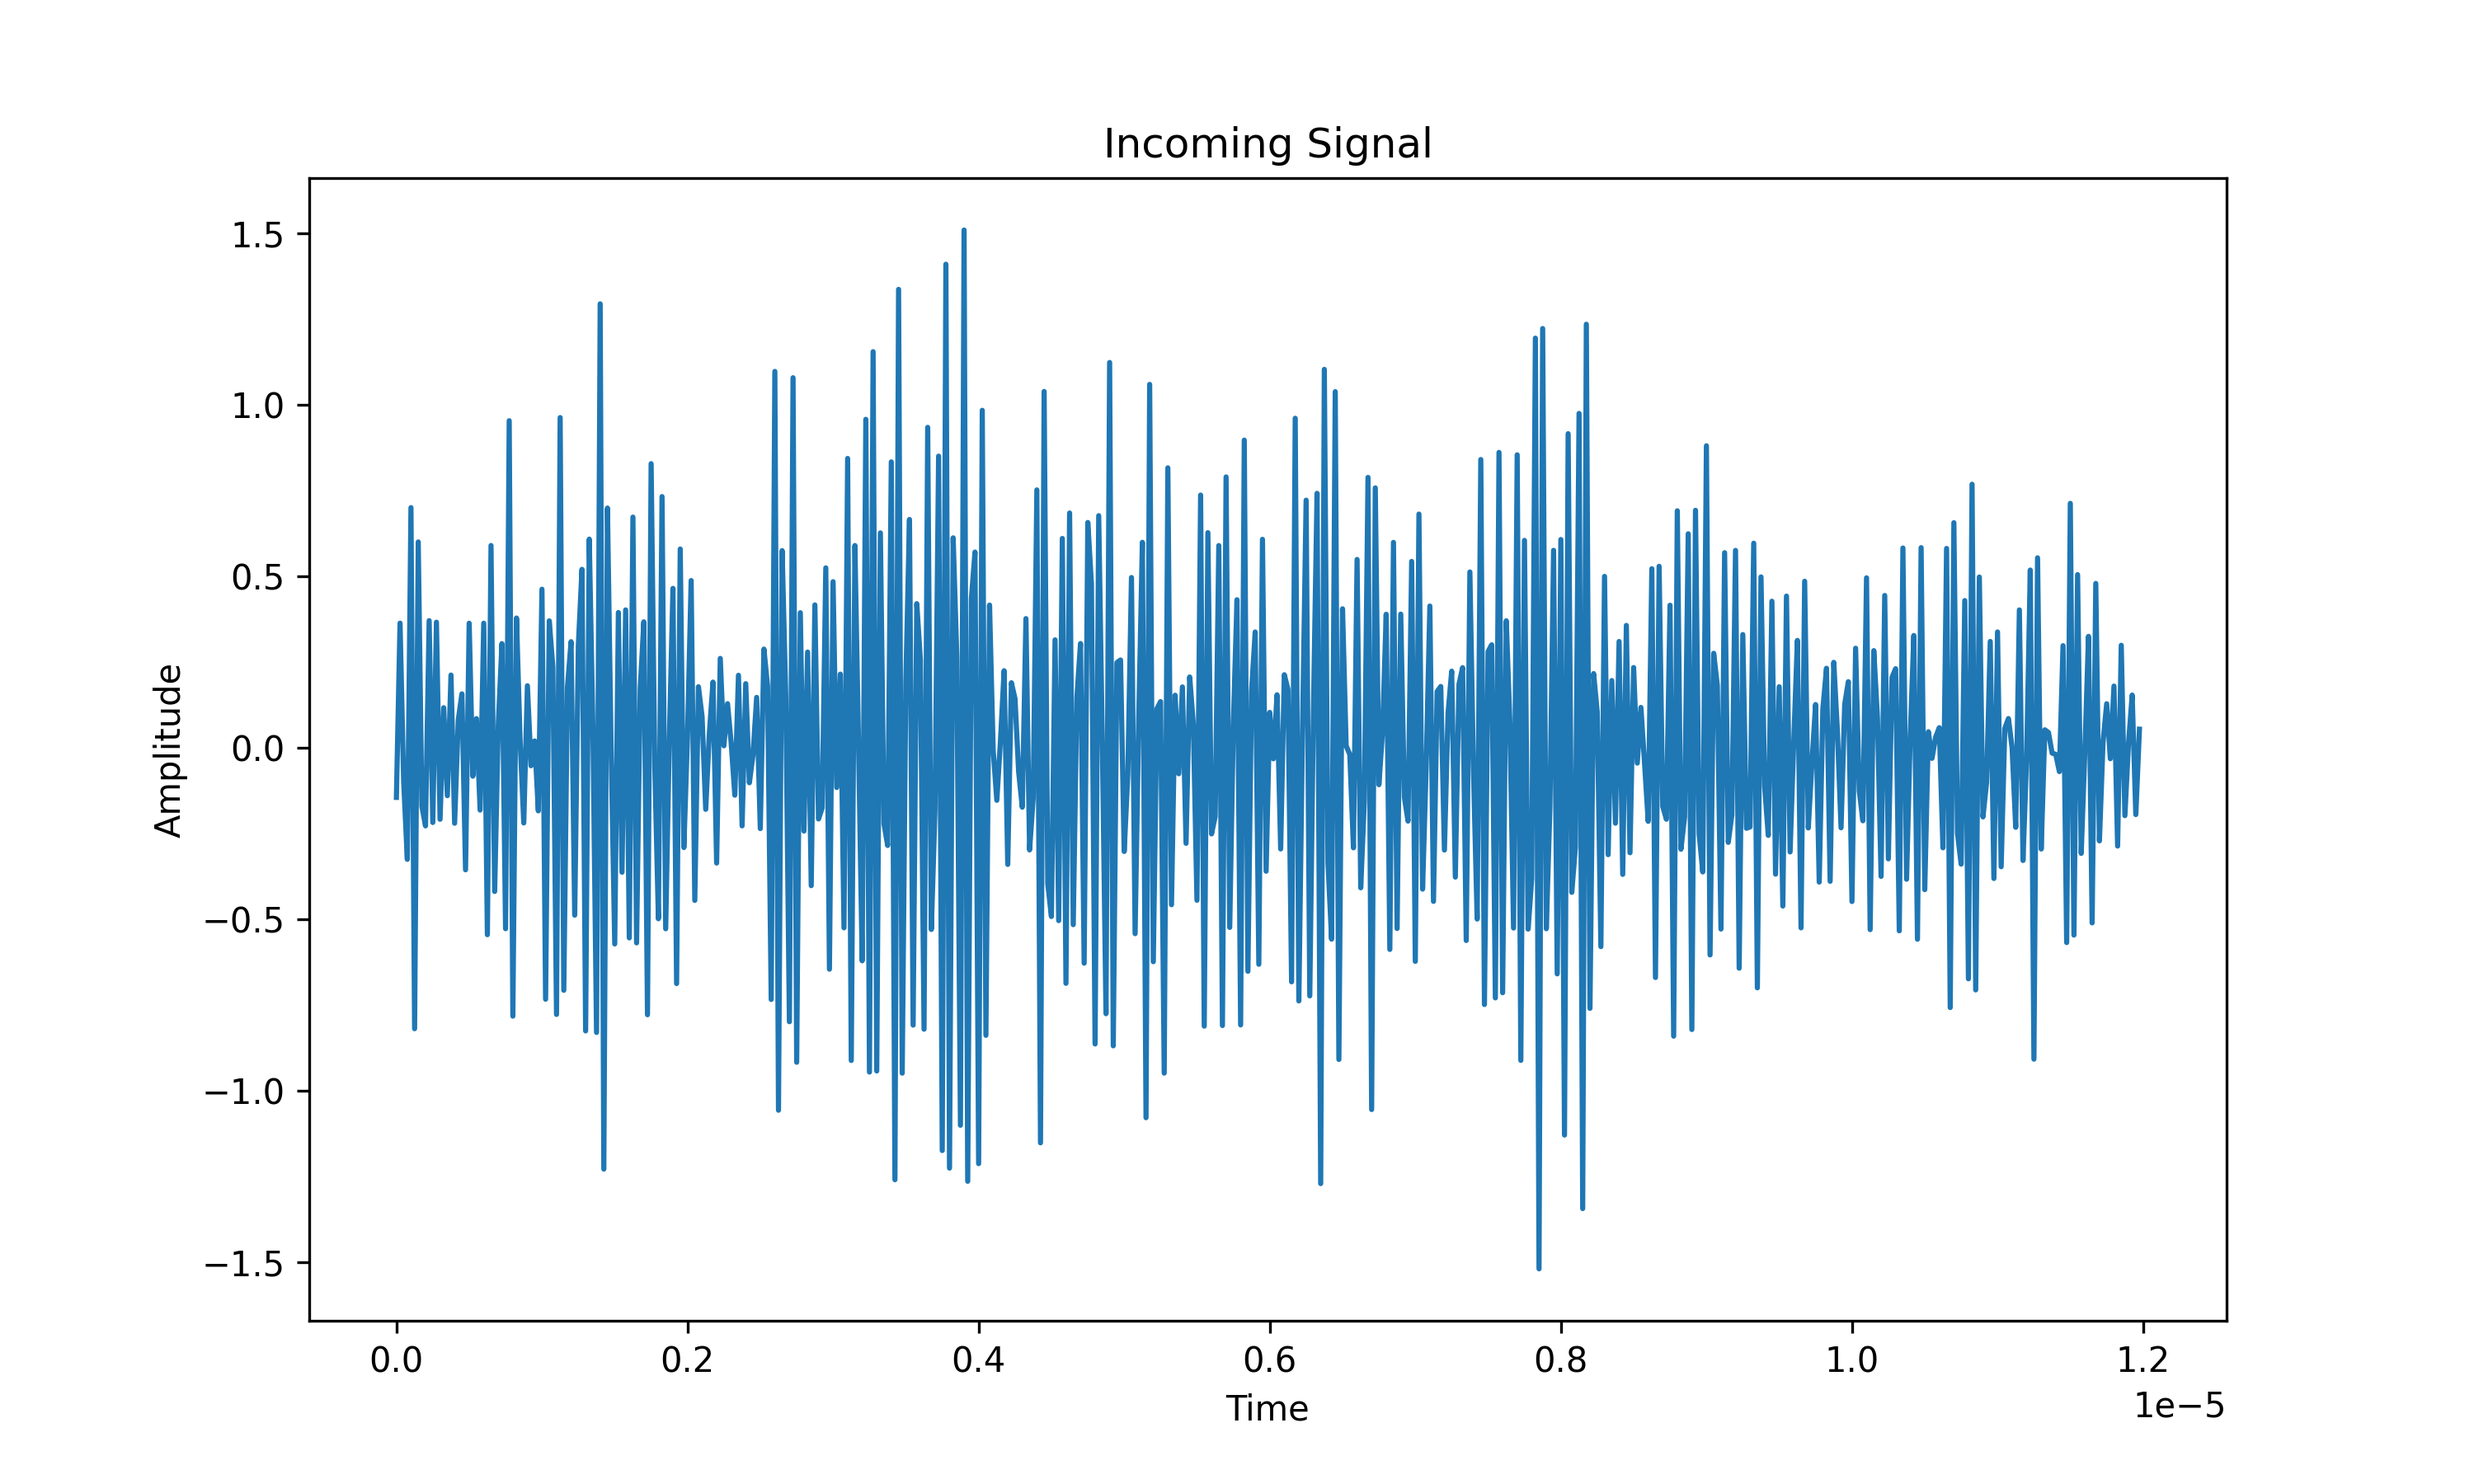
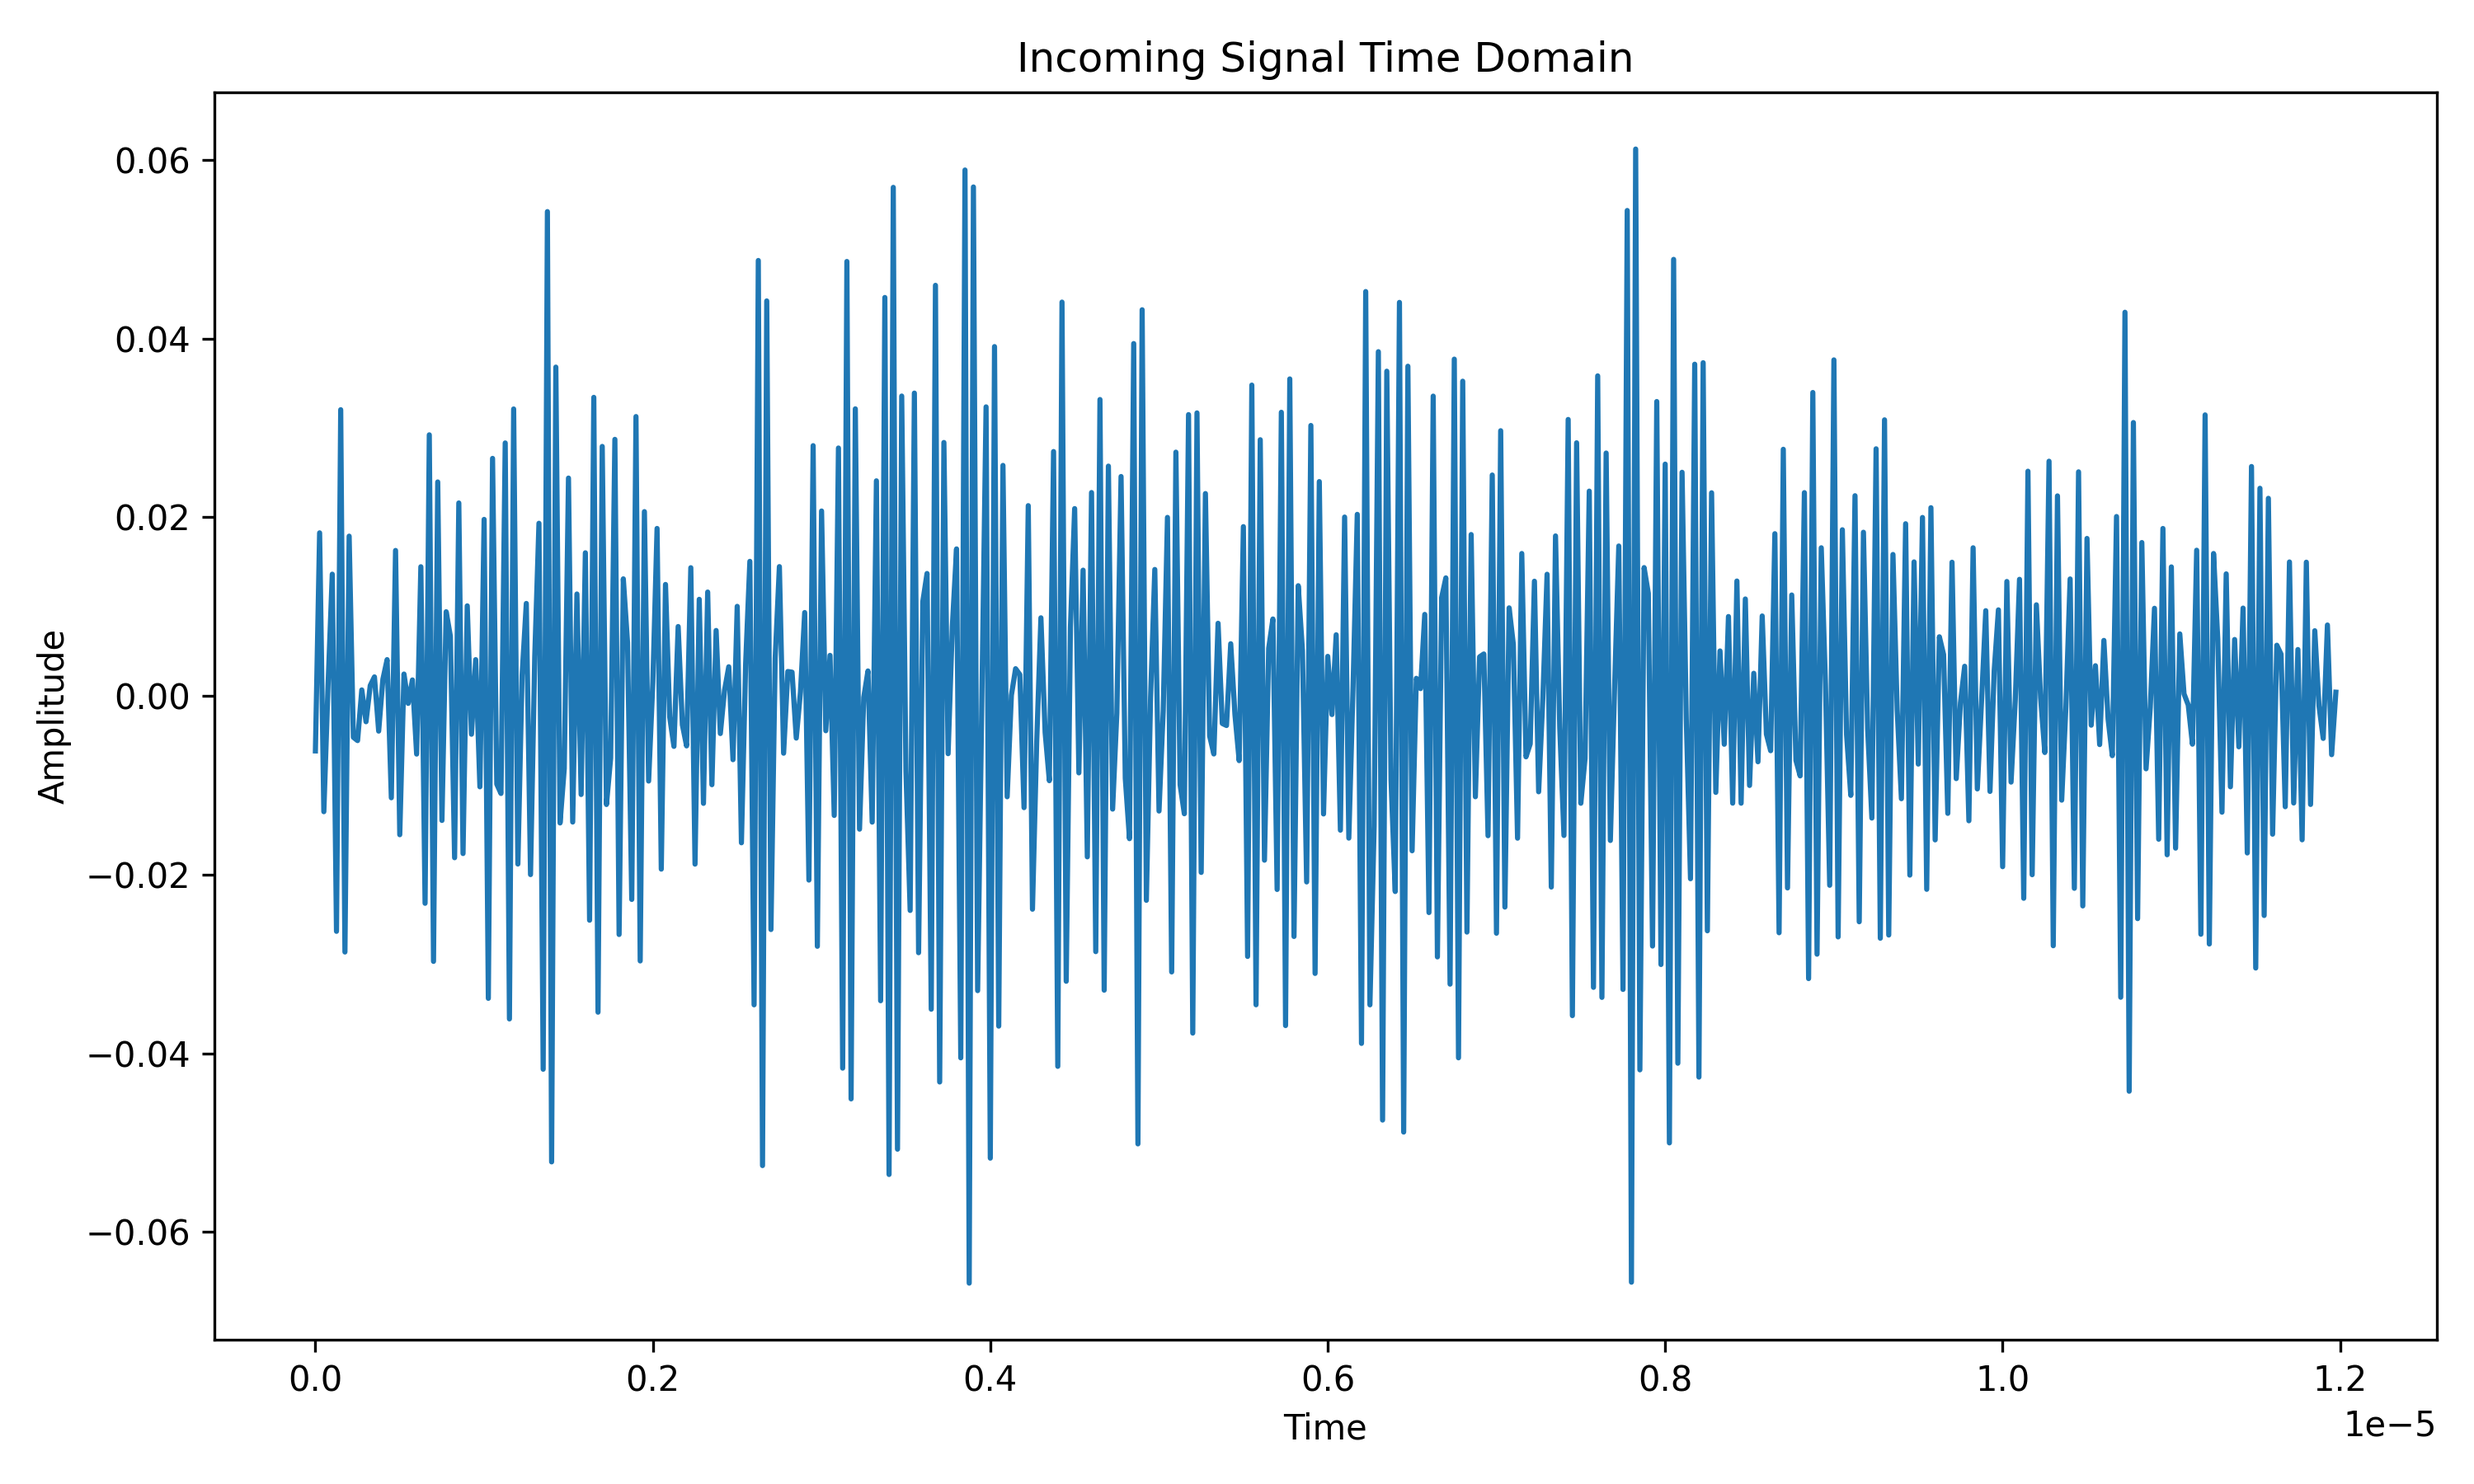
changes to viewer.py and channel for graphing

diff --git a/Cesium_Sattelite/viewer.py b/Cesium_Sattelite/viewer.py
@@ -327,8 +327,8 @@ def Cesium_page():
                 #equation used ((kc - (vr dot khat)/lambda)/(kc - (vt dot khat)/lambda))fc kc = 1/lambda* speed of light
                 f_doppler_shifted = ((txFreq - np.dot(sat_v, k_ts)/lambda_up)/(txFreq - np.dot(tx_v, k_ts)/lambda_up)) * txFreq
                 f_delta_up = f_doppler_shifted-txFreq
-                ui.label(f'The doppler shifted frequency for uplink: {f_doppler_shifted} Hz').style(label_style)
-                ui.label(f'Delta f: {f_delta_up} Hz').style(label_style)
+                ui.label(f'The doppler shifted frequency for uplink: {f_doppler_shifted:.7f} Hz').style(label_style)
+                ui.label(f'Delta f: {f_delta_up:.7f} Hz').style(label_style)
 
                 
                 #downlink doppler 
@@ -337,8 +337,8 @@ def Cesium_page():
                 lambda_down = c/f_c_down
                 f_doppler_shifted = ((f_c_down - np.dot(rx_v, k_sr)/lambda_down)/(f_c_down - np.dot(sat_v, k_sr)/lambda_down)) * f_c_down
                 f_delta_down = f_doppler_shifted - f_c_down
-                ui.label(f'The doppler shifted frequency for downlink: {f_doppler_shifted} Hz').style(label_style)
-                ui.label(f'Delta f: {f_delta_down} Hz').style(label_style)
+                ui.label(f'The doppler shifted frequency for downlink: {f_doppler_shifted:.7f} Hz').style(label_style)
+                ui.label(f'Delta f: {f_delta_down:.7f} Hz').style(label_style)
 
 
                 #time delay up and down:
@@ -348,6 +348,7 @@ def Cesium_page():
                 ui.label(f'Time delay up: {time_delay_up:.7f} s').style(label_style)
 
                 time_delay_down = np.linalg.norm(rx_r - sat_r) / c 
+                total_time_delay = time_delay_up + time_delay_down
                 ui.label(f'Time delay down: {time_delay_down:.7f} s').style(label_style)
                 
 
@@ -381,34 +382,38 @@ def Cesium_page():
             
             #the required transmit power from tx to rep and rep to rec will be used to determine the amplitude of the outgoing waves 
             Fs = 40e6 #sample rate 40 mega samples per second
-            symbol_rate = 4e6 #10 times less than the sample rate
+            symb_rate = 4e6 #10 times less than the sample rate
             
-            sig_gen = SigGen.SigGen(txFreq, amp = 1, symbol_rate= Fs, symbol_rate = symbol_rate)
+            sig_gen = SigGen.SigGen(txFreq, amp = 1, sample_rate = Fs, symbol_rate = symb_rate)
             bits = sig_gen.message_to_bits(mes)#note that this will add prefix and postfix to the bits associated wtih the message
             t, qpsk_signal = sig_gen.generate_qpsk(bits)
-            print(f'does: {np.mean(np.sum(np.abs(qpsk_signal)**2))} = {required_tx_power}')
             #scale the power of the signal 
             Pcurr = np.mean(np.sum(np.abs(qpsk_signal)**2))
             gain = np.sqrt(required_tx_power/Pcurr)
             qpsk_signal *= gain
+            print(f'does: {np.mean(np.sum(np.abs(qpsk_signal)**2))} = {required_tx_power}')
 
             #define channel up
             channel_up = Channel.Channel(qpsk_signal, h_up, noise, f_delta_up, up = True)
             #apply the channel: 
             qpsk_signal_after_channel = channel_up.apply_channel(t)
+            #run the channel_up_handler:
+            channel_up.handler(t, 4e9) #generate all the plots we want to display, note we pass in a higher sample rate just so we can actually get FFT data for the incoming signal
             
+            #upconvert:
             #we want the outgoing power to reach the required power
             Pcurr = np.mean(np.sum(np.abs(qpsk_signal_after_channel)**2))
             gain = np.sqrt(required_rep_power/Pcurr)#this gain is used to get the power of the signal to desired power
-            repeated_qpsk_signal_after_channel = gain * np.exp(1j*2 * np.pi * 10e6 * t) * qpsk_signal_after_channel
-            
+            repeated_qpsk_signal = gain * np.exp(1j*2 * np.pi * 10e6 * t) * qpsk_signal_after_channel
             #now we want to see if we actually got to the desired power
             #debug:
-            print(f'does: {np.mean(np.sum(np.abs(repeated_qpsk_signal_after_channel)**2))} = {required_rep_power}')
-
-            #run the channel_up_handler:
-            channel_up.handler(t, 4e9) #generate all the plots we want to display
-            #now the repeater will take in the qpsk_signal_after_channel and upconvert by 10MHz
+            print(f'does: {np.mean(np.sum(np.abs(repeated_qpsk_signal)**2))} = {required_rep_power}')
+            #run the signal through channel down
+            channel_down = Channel.Channel(repeated_qpsk_signal, h_down, noise, f_delta_down, up = False)
+            channel_down.handler(t)
+            
+            #This signal is what gets fed into the repeater
+            repeated_siganl_after_channel = channel_down.apply_channel(t)
 
             # channel_down = Channel.Channel()
             ui.notify('Simulation Ready')
@@ -450,7 +455,7 @@ def Cesium_page():
             #show upsampled bits sub plot one on top of the other real and imaginary
 
             #show the pulse shaping Re/Im
-            
+
             #show it modulated with the carrier over a short time frame
 
         @ui.page('/channel1')
@@ -458,12 +463,11 @@ def Cesium_page():
             ui.button('Back', on_click=ui.navigate.back)
             ui.label('Channel Uplink Page').style('font-size: 2em; font-weight: bold;')
             ui.label('This is a placeholder for the first channel simulation step.')
-
-            ui.image('media/channel_up_h_phase.png').force_reload()
-            ui.image('media/channel_up_incoming_time.png').force_reload()
-            ui.image('media/channel_up_incoming_fft.png').force_reload()
-            ui.image('media/channel_up_outgoing_time.png').force_reload()
-            ui.image('media/channel_up_outgoing_fft.png').force_reload()
+            ui.image('media/channel_up_h_phase.png').style('width: 70%;').force_reload()
+            ui.image('media/channel_up_incoming_time.png').style('width: 70%;').force_reload()
+            ui.image('media/channel_up_incoming_fft.png').style('width: 70%;').force_reload()
+            ui.image('media/channel_up_outgoing_time.png').style('width: 70%;').force_reload()
+            ui.image('media/channel_up_outgoing_fft.png').style('width: 70%;').force_reload()
             #show information about h
             #show information about the signal in vs the receive signal e.g. attenuation/phase shift
             #  
@@ -478,8 +482,12 @@ def Cesium_page():
             ui.button('Back', on_click=ui.navigate.back)
             ui.label('Channel Downlink Page').style('font-size: 2em; font-weight: bold;')
             ui.label('This is a placeholder for the second channel simulation step.')
-            #information about h 
-            #who information about the signal in vs signal out e.g. attenuation / phase shfit
+            ui.image('media/channel_down_h_phase.png').style('width: 70%;').force_reload()
+            ui.image('media/channel_down_incoming_time.png').style('width: 70%;').force_reload()
+            ui.image('media/channel_down_incoming_fft.png').style('width: 70%;').force_reload()
+            ui.image('media/channel_down_outgoing_time.png').style('width: 70%;').force_reload()
+            ui.image('media/channel_down_outgoing_fft.png').style('width: 70%;').force_reload()
+
         @ui.page('/receiver')
         def receiver_page():
             ui.button('Back', on_click=ui.navigate.back)

diff --git a/Cesium_Sattelite/Channel.py b/Cesium_Sattelite/Channel.py
@@ -52,23 +52,26 @@ class Channel:
         
         direction = 'up' if self.up else 'down'#specifier so that the user files can be differentiated 
 
-        #plot incoming signal in time and frequency
+        #plot incoming signal in time 
         #plot them side by side
+
         plt.figure(figsize=(10, 6))
         plt.plot(t, np.real(self.incoming_signal))
-        plt.title('Incoming Signal')
+        plt.title('Incoming Signal Time Domain')
         plt.xlabel('Time')
         plt.ylabel('Amplitude')
+        plt.tight_layout()
         plt.savefig(f'media/channel_{direction}_incoming_time', dpi=300)
 
 
-        #plot outgoing signal in time and frequency
-        #plot them side by side
+        #plot outgoing signal in time
+
         plt.figure(figsize= (10, 6))
-        plt.subplot(1,2,1)
-        plt.plot(t, np.real(self.incoming_signal))
-        plt.subplot(1,2,2) 
-        plt.plot(t, np.imag(self.incoming_signal))
+        plt.plot(t, np.real(self.outgoing_signal))
+        plt.title('Incoming Signal Time Domain')
+        plt.xlabel('Time')
+        plt.ylabel('Amplitude')
+        plt.tight_layout()
         plt.savefig(f'media/channel_{direction}_outgoing_time', dpi=300)
 
         # get the fft incoming
@@ -79,25 +82,40 @@ class Channel:
         N = len(t)
         f = np.fft.fftshift(np.fft.fftfreq(N, d = 1/Fs))
         plt.plot(f, S_mag_db)
+        plt.title('Frequency Domain of Incoming Signal')
+        plt.xlabel('Frequency (Hz)')
+        plt.ylabel('Magnitude (dB)')
+        plt.tight_layout()
         plt.savefig(f'media/channel_{direction}_incoming_fft', dpi = 300)
         
-        # getfft outgoing
+        # get fft outgoing
         plt.figure(figsize = (10, 6))
         S = np.fft.fft(self.outgoing_signal)
         S = np.fft.fftshift(S)
         S_mag_db = 20 * np.log10(np.abs(S))
         f = np.fft.fftshift(np.fft.fftfreq(N, d = 1/Fs))
         plt.plot(f, S_mag_db)
+        plt.title('Frequency Domain of Outgoing Signal')
+        plt.xlabel('Frequency (Hz)')
+        plt.ylabel('Magnitude (dB)')
+        plt.tight_layout()
         plt.savefig(f'media/channel_{direction}_outgoing_fft', dpi = 300)
+
 
         #plot the phase rotation h causes 
         # Normalize h to unit magnitude
         h_normalized = self.h / np.abs(self.h)
         phase = np.angle(h_normalized)
-
         #plotting the phase 
         plt.figure(figsize=(5, 5))
-        plt.plot([0, np.real(h_normalized)], [0, np.imag(h_normalized)], marker='o')
+        # Plot the unit circle
+        circle = plt.Circle((0, 0), 1, color='lightgray', fill=False, linestyle='--')
+        plt.gca().add_artist(circle)
+        # Plot the arc from 0 to phase
+        arc_theta = np.linspace(0, phase, 100)
+        plt.plot(np.cos(arc_theta), np.sin(arc_theta), color='orange', linewidth=2, label='Phase Arc')
+        # Plot the vector for h
+        plt.plot([0, np.real(h_normalized)], [0, np.imag(h_normalized)], marker='o', color='b', label='h')
         plt.xlim(-1.1, 1.1)
         plt.ylim(-1.1, 1.1)
         plt.xlabel('Real')
@@ -105,4 +123,6 @@ class Channel:
         plt.title(f'Phase of h: {np.degrees(phase):.2f}°')
         plt.grid(True)
         plt.gca().set_aspect('equal', adjustable='box')
+        plt.legend()
+        plt.tight_layout()
         plt.savefig(f'media/channel_{direction}_h_phase', dpi=300)

diff --git a/Cesium_Sattelite/Sig_Gen.py b/Cesium_Sattelite/Sig_Gen.py
@@ -65,7 +65,7 @@ class SigGen:
 
         # Root raised-cosine filter impulse respone in the time domain
         h = ifft(fh)
-        h = h
+        h /= np.sum(h) # normalize to get unity gain, we dpon't want to change the amplitude/power
         return time, h
 
     def generate_qpsk(self, bits):
